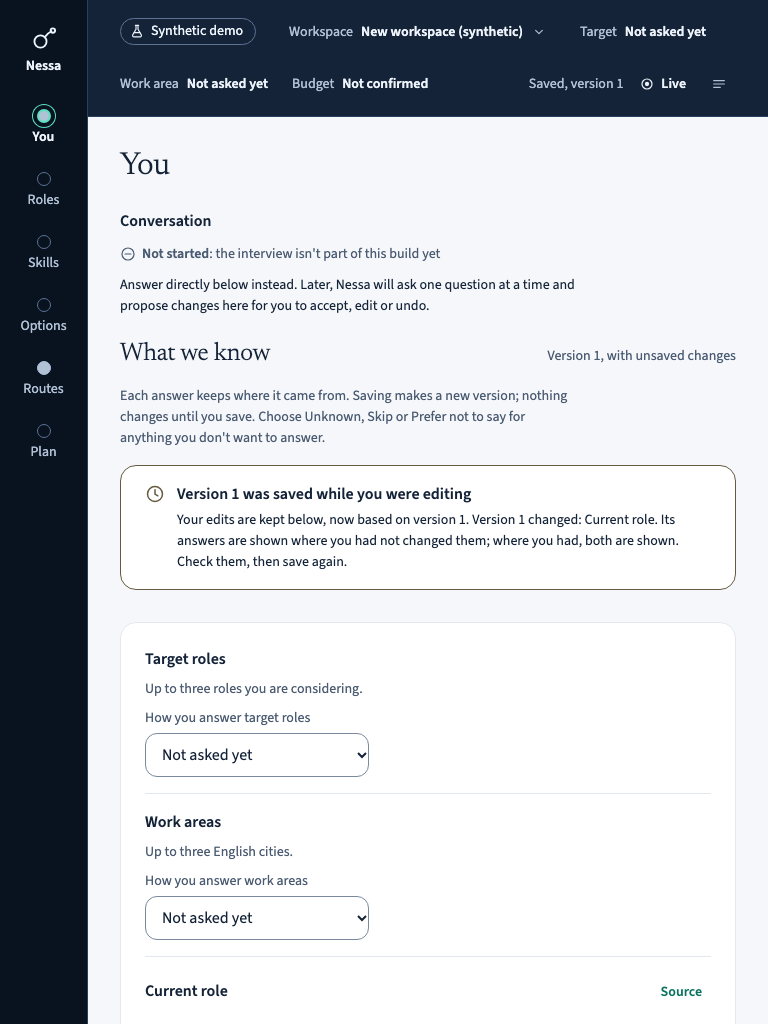
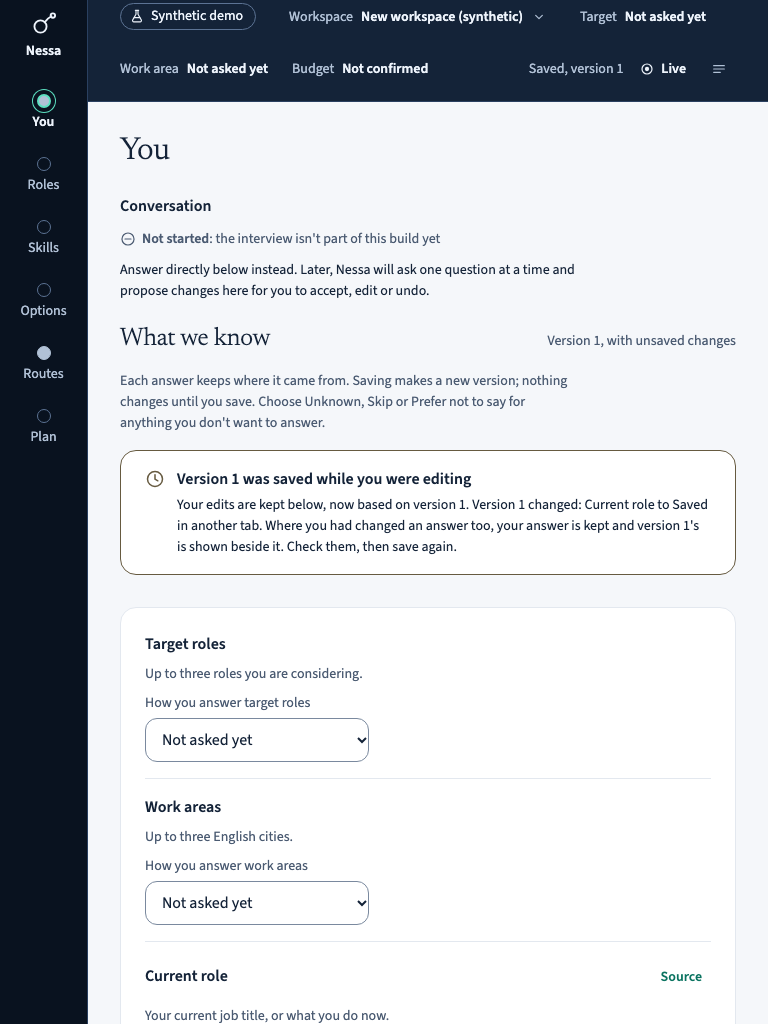
Check the stale notice in the browser and prove the live update did not reload
- access.spec: the refused stale save's notice is an alert, has focus,
  and names the changed answer and its new value (rereview A-I2).
- session.spec: a window marker set before the other client saves
  survives the update; a reload would keep the address but lose it
  (rereview M2).
- The three you--stale captures are recaptured (the notice now names the
  new value and takes focus). Other captures are unchanged; only the
  per-run reference in not-found and not-invited would differ, so they
  are kept.

diff --git a/apps/web/e2e/session.spec.ts b/apps/web/e2e/session.spec.ts
@@ -66,7 +66,10 @@ test("[STATE-07][BND1-13] a change saved elsewhere reaches an open page through 
   await signIn(watcher, "ada", chapterUrl("you"));
   await expect(liveUpdates(watcher, "Live")).toBeVisible();
   await expect(watcher.getByRole("banner").getByText("Saved, version 1")).toBeVisible();
-  const opened = watcher.url();
+  // A reload keeps the address but loses this marker: it proves the page was not reloaded.
+  await watcher.evaluate(() => {
+    (window as unknown as { nessaUnreloaded?: boolean }).nessaUnreloaded = true;
+  });
 
   // Another client saves: the event must cross the API, the web server's proxy and the
   // browser's stream reader, and the page refetch, within a few seconds and without a reload.
@@ -84,6 +87,10 @@ test("[STATE-07][BND1-13] a change saved elsewhere reaches an open page through 
   await expect(watcher.getByRole("textbox", { name: "Current role", exact: true })).toHaveValue(
     "Saved from another tab",
   );
-  expect(watcher.url()).toBe(opened);
+  expect(
+    await watcher.evaluate(
+      () => (window as unknown as { nessaUnreloaded?: boolean }).nessaUnreloaded,
+    ),
+  ).toBe(true);
   await watcher.context().close();
 });

diff --git a/apps/web/e2e/access.spec.ts b/apps/web/e2e/access.spec.ts
@@ -96,8 +96,12 @@ test("[DUR-04][VERSIONS-01] a save based on an older version is refused and the 
   await expect(first.getByText("Saved as version 1.")).toBeVisible();
 
   await second.getByRole("button", { name: "Save changes" }).click();
-  await expect(second.getByText("Version 1 was saved while you were editing")).toBeVisible();
-  await expect(second.getByText(/Version 1 changed: Current role/)).toBeVisible();
+  // Announced and focused, naming what changed and to what.
+  const notice = second.getByRole("alert").filter({
+    hasText: "Version 1 was saved while you were editing",
+  });
+  await expect(notice).toBeFocused();
+  await expect(notice).toContainText("Version 1 changed: Current role to First tab's answer.");
   await expect(second.getByRole("textbox", role)).toHaveValue("Second tab's answer");
   // Close both tabs: open pages would keep streaming into the next test's restart.
   await first.close();
